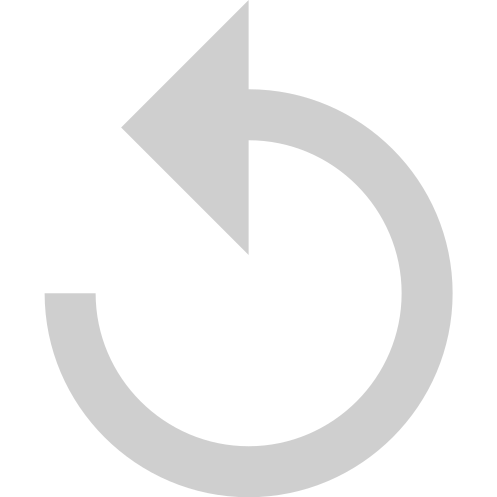
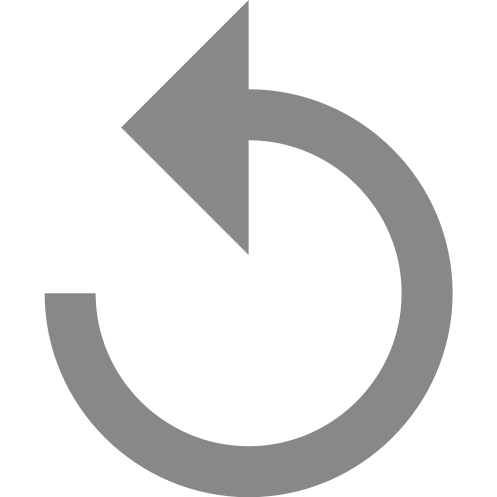
Css for undo button in Blockly

Changed region(s): [[0.0905, 0.0, 0.9356, 1.0]]

diff --git a/Blockly-for-Dwenguino/blockly/core/undo_button.js b/Blockly-for-Dwenguino/blockly/core/undo_button.js
@@ -336,15 +336,15 @@ Blockly.UndoButton.prototype.createUndoButtonSvg_ = function(rnd) {
  */
 Blockly.Css.register([
   /* eslint-disable indent */
-  '.blocklyZoom>image, .blocklyZoom>svg>image {',
+  '.undo>image, .undo>svg>image {',
     'opacity: .4;',
   '}',
 
-  '.blocklyZoom>image:hover, .blocklyZoom>svg>image:hover {',
+  '.undo>image:hover, .undo>svg>image:hover {',
     'opacity: .6;',
   '}',
 
-  '.blocklyZoom>image:active, .blocklyZoom>svg>image:active {',
+  '.undo>image:active, .undo>svg>image:active {',
     'opacity: .8;',
   '}'
   /* eslint-enable indent */
